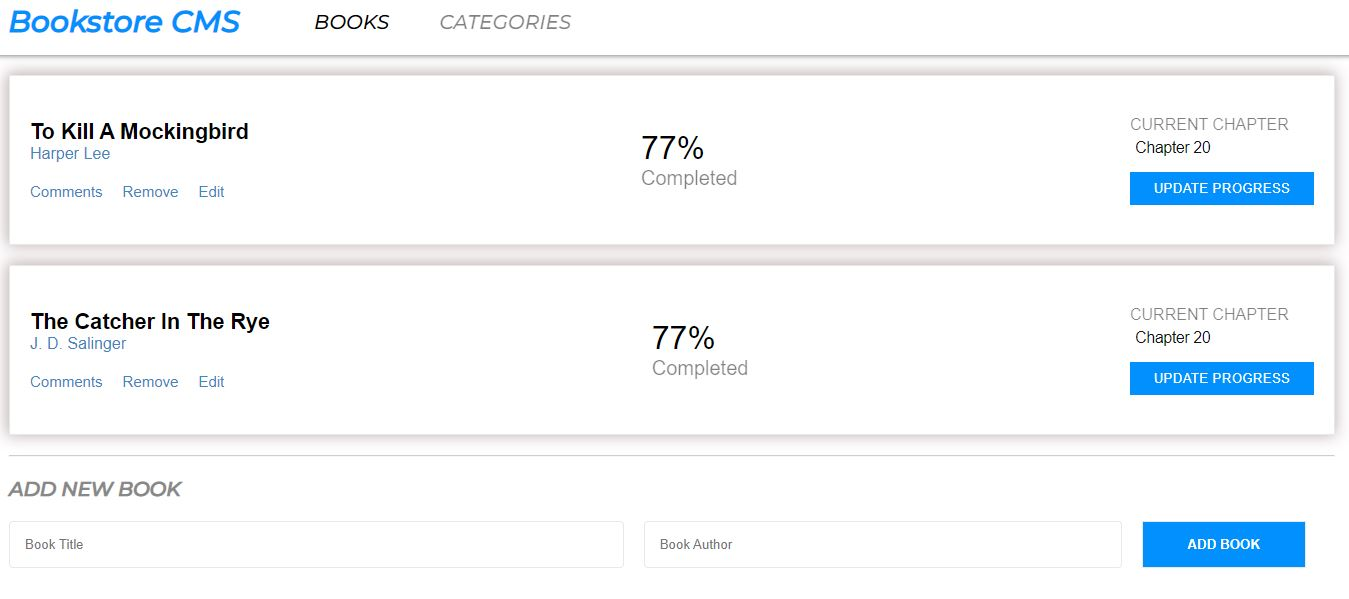
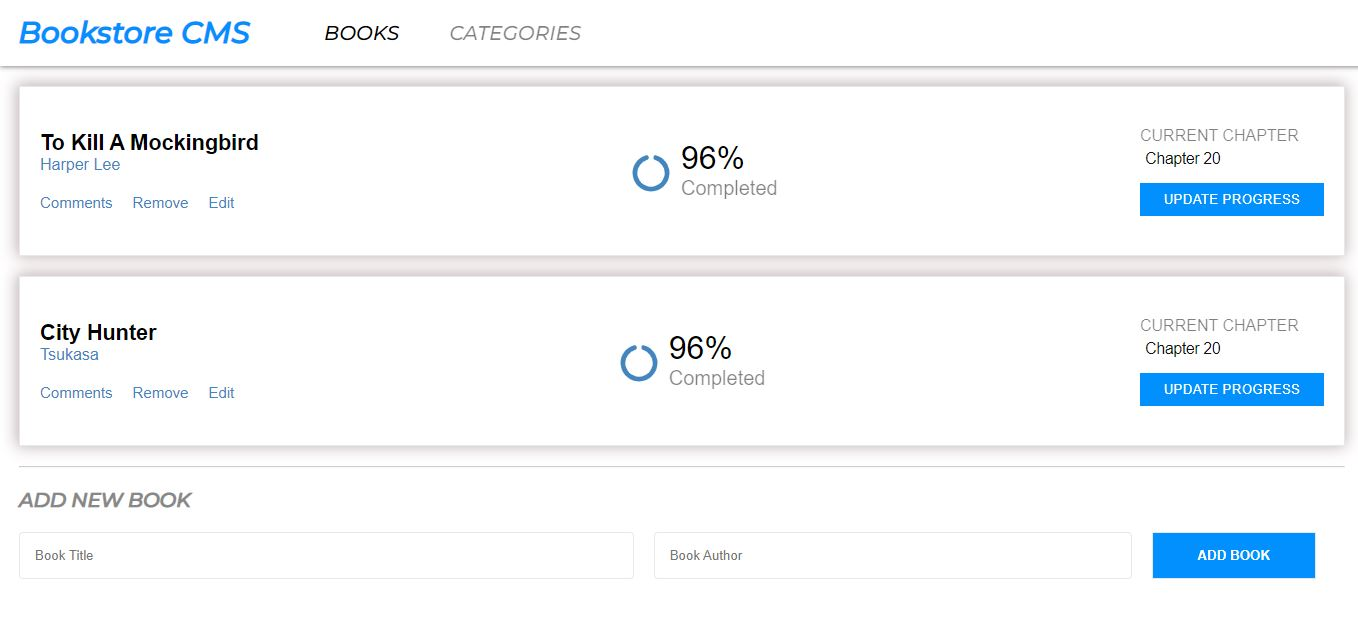
add progress circle

diff --git a/src/components/Book.js b/src/components/Book.js
@@ -1,3 +1,4 @@
+import { FaCircleNotch } from 'react-icons/fa';
 import React, { useEffect } from 'react';
 import { useSelector, useDispatch } from 'react-redux';
 import { getBooks, removeBook } from '../redux/books/books';
@@ -31,8 +32,13 @@ const Book = () => {
               </div>
             </div>
             <div className="progress">
-              <span>77%</span>
-              <span className="status">Completed</span>
+              <div className="progress-circle">
+                <FaCircleNotch className="progress-circle" />
+              </div>
+              <div className="side">
+                <span>96%</span>
+                <span className="status">Completed</span>
+              </div>
             </div>
             <div className="chapter">
               <span>CURRENT CHAPTER</span>

diff --git a/src/index.css b/src/index.css
@@ -100,8 +100,20 @@ button {
 
 .progress {
   display: flex;
-  flex-direction: column;
+  flex-direction: row;
   font-size: 2rem;
+}
+
+.progress-circle {
+ font-size: 45px;
+ width: 60px;
+ color: #4386bf;
+ padding: 7px 0 0 0;
+}
+
+.side {
+  display: flex;
+  flex-direction: column;
 }
 
 .status {
